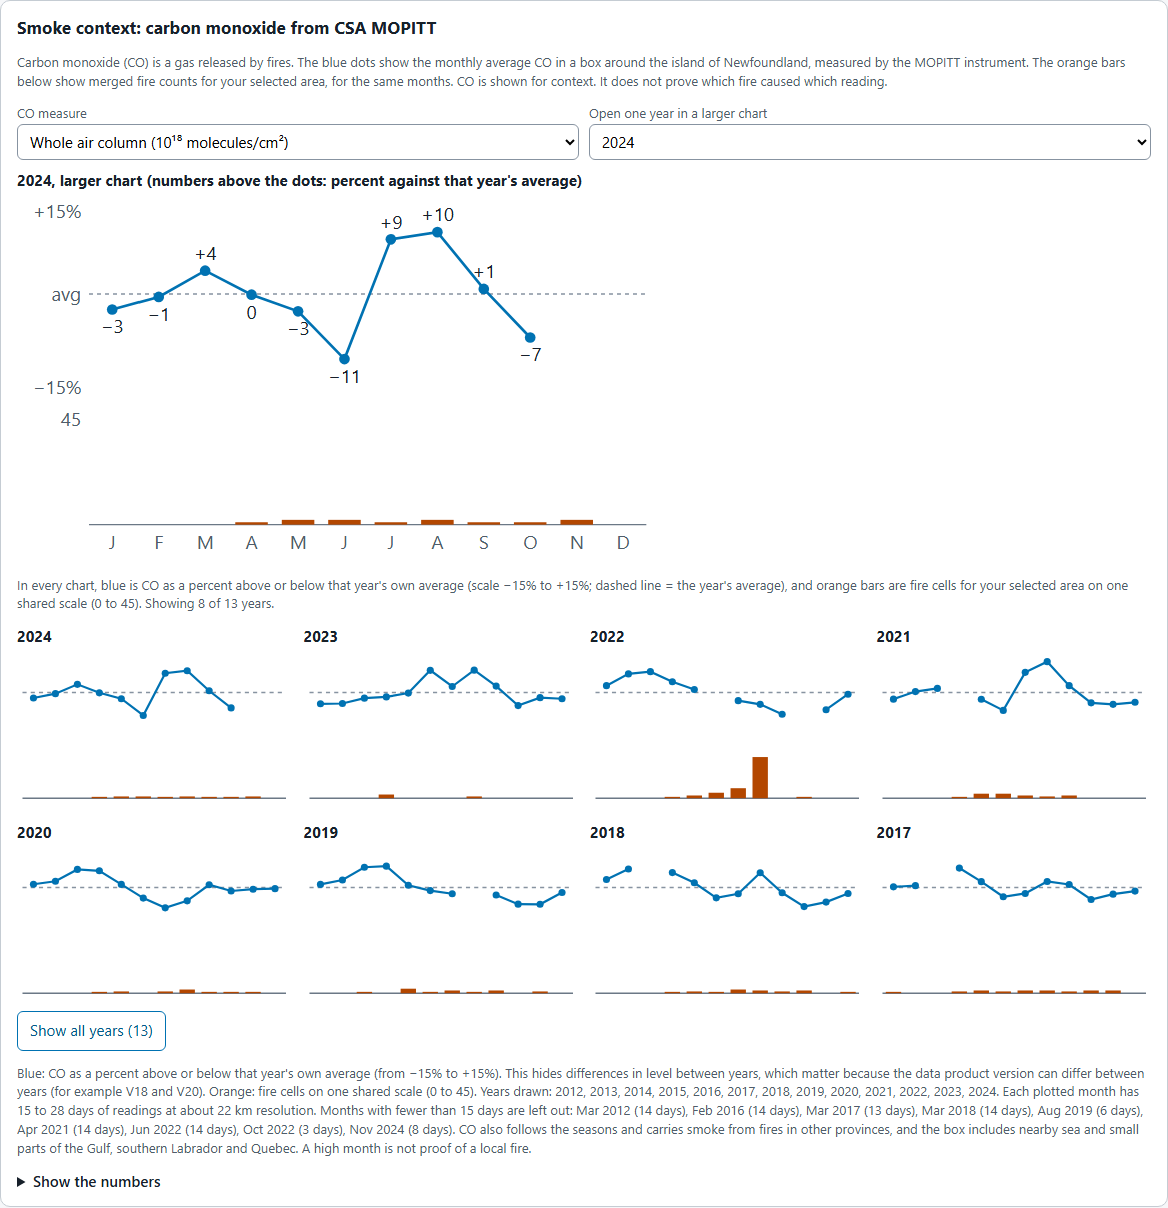
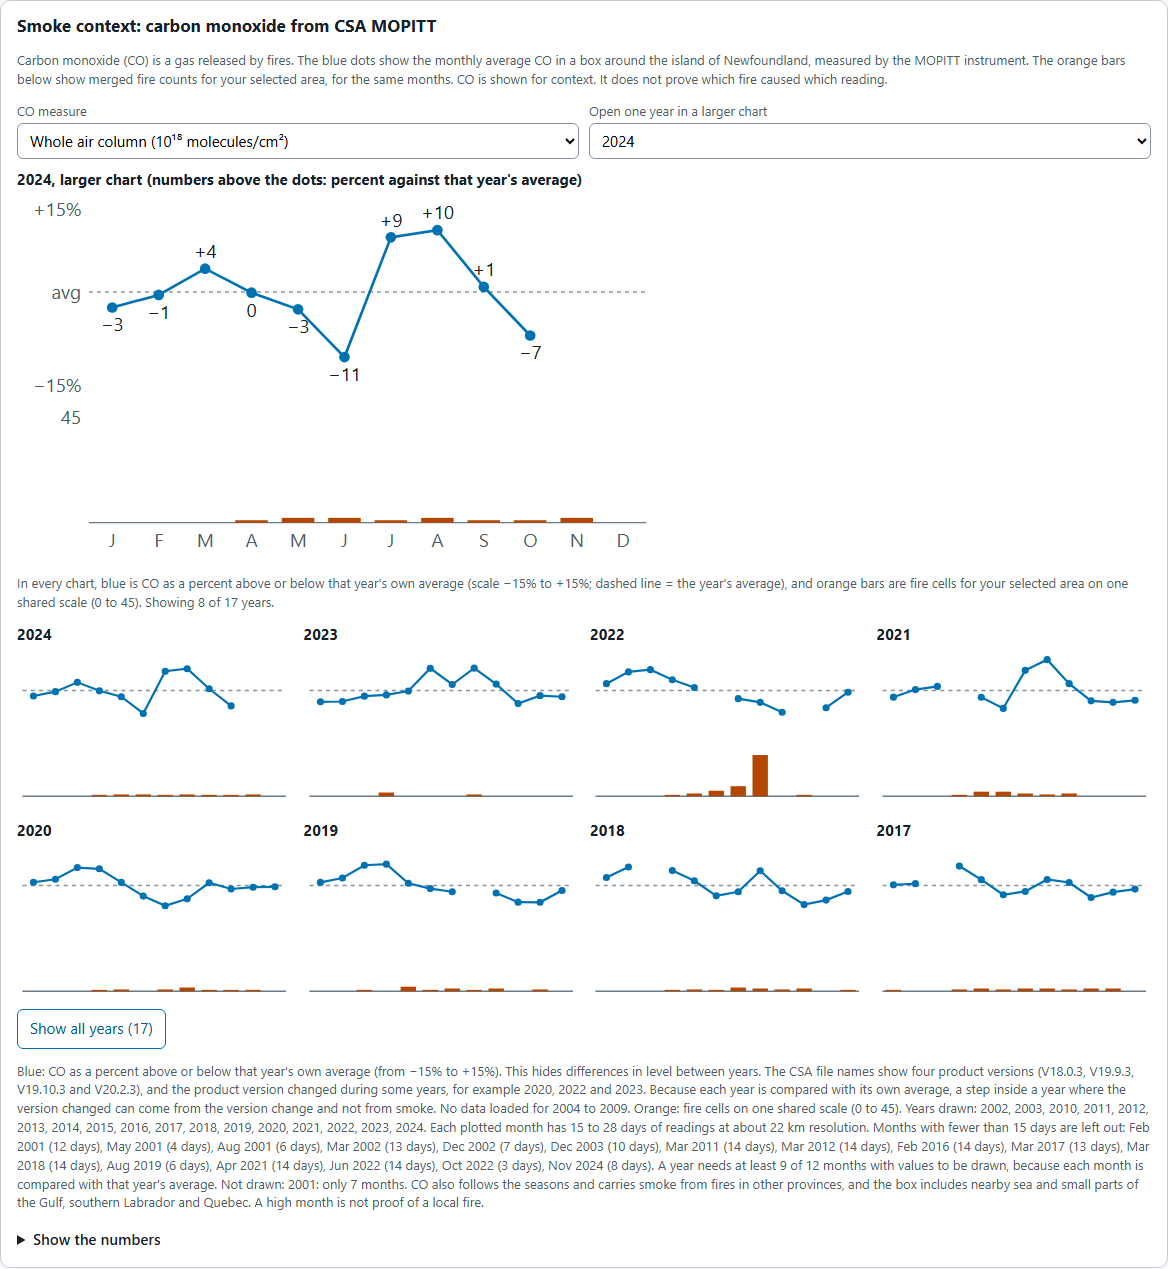
Update demo screenshots and click order (#4)

diff --git a/notes/demo-script.md b/notes/demo-script.md
@@ -5,7 +5,7 @@ Two versions:
 - A. The official Space Apps video. At most 30 seconds, with English subtitles (`notes/subtitles.srt`).
 - B. The live 2-minute presentation.
 
-Fill in `[YOUR NAME]` and `[TEAM NAME]` in the 2-minute version before presenting.
+Speaker: Amalraj Rajesh, Basepan Space Challenge Team.
 
 What the app does and does not do. It gives historical context: when and where satellites saw fire in the past. It does not predict fires, send alerts or confirm fires. A heat detection is not a confirmed fire.
 
@@ -17,11 +17,22 @@ What the app does and does not do. It gives historical context: when and where s
 - Typical (median) error when each May to September total is predicted from the other seasons: 15%. For single months the error is much larger: about 60%.
 - Peak month, island of Newfoundland: August 2025, 64 fire cells. The median for August in the other 14 VIIRS-era years is 2.
 
+## How the page is laid out now
+
+- At the top: the header, then the headline card ("Two satellite sensors count fires differently...") with three boxes: "May 2001–Nov 2026 record coverage", "14 fit seasons" and "15% season error". Below them are the buttons "Explore the calendar" and "See evidence and limits", and a closed section "About: problem, method, tour, safe use".
+- Next to the headline card: the "Right now" box.
+- Below: a closed section "How to read this: squares, colors, median".
+- Then the tabs: Area and calendar, Compare, Smoke, Downloads, Method.
+- In "Area and calendar", the calendar comes first ("1. Burning activity calendar"). Under its title is a line such as "Area: the island of Newfoundland" and a link "Change the area or dates". The area controls come second ("2. Choose an area and dates"). The "Island of Newfoundland" button is in that second card.
+
+Leave both closed sections closed while recording.
+
 ## Before you record (both versions)
 
-1. Open the app at 1400 px wide or more. Use the live site, or run `python -m http.server 8001 --directory app` and open http://localhost:8001 .
-2. Click "Island of Newfoundland" once. The area stays selected when you change tabs.
-3. Scroll back to the top of the page.
+1. Open https://portalzone.github.io/nl-fire-calendar/ at 1400 px wide or more. Do a hard refresh (Ctrl+Shift+R) so you do not see an old copy.
+2. Click "Explore the calendar". Click "Change the area or dates" on the calendar card. Click "Island of Newfoundland".
+3. Check the line under "1. Burning activity calendar" says "Area: the island of Newfoundland". The area stays selected when you change tabs. Do not reload the page after this, or the area resets.
+4. Scroll back to the top of the page.
 
 ---
 
@@ -30,8 +41,8 @@ What the app does and does not do. It gives historical context: when and where s
 | Time | On screen | Click | Words to say | Words |
 |---|---|---|---|---|
 | 0:00.0 to 0:03.5 | Top of the page: the title "Newfoundland and Labrador Fire Calendar" | None | I'm Amalraj Rajesh, from Basepan Space Challenge Team. | 8 |
-| 0:03.5 to 0:12.0 | Scroll a little to the challenge card: "Two sensors count fire hotspots differently" and the boxes "14" and "15%" | None (scroll) | Challenge: Harmonization of MODIS and VIIRS Hot Spots. MODIS is retiring; more than a decade of fire history could be lost. | 21 |
-| 0:12.0 to 0:16.5 | The calendar, one square per month, years 2001 to 2026 | "Explore the calendar", then scroll down to the calendar | NL Fire Calendar: twenty-five years of fire history on one scale. | 11 |
+| 0:03.5 to 0:12.0 | The same view. The headline card "Two satellite sensors count fires differently" with the boxes "14 fit seasons" and "15% season error" | None | Challenge: Harmonization of MODIS and VIIRS Hot Spots. MODIS is retiring; more than a decade of fire history could be lost. | 21 |
+| 0:12.0 to 0:16.5 | "1. Burning activity calendar", one square per month, years 2000 to 2026, area: the island of Newfoundland | "Explore the calendar" (opens the Area and calendar tab at the calendar) | NL Fire Calendar: twenty-five years of fire history on one scale. | 11 |
 | 0:16.5 to 0:22.0 | The calendar. Point at a 2009 row (MODIS, scaled) and a 2022 row (VIIRS). | None | Fire cells and one ratio from fourteen overlap seasons scale MODIS to VIIRS. | 13 |
 | 0:22.0 to 0:24.5 | Smoke tab: carbon monoxide chart | "Smoke" tab | Data: NASA FIRMS and CSA MOPITT. | 6 |
 | 0:24.5 to 0:30.0 | Compare tab: August 2025, 64 fire cells against a median of 2 | "Compare" tab, then "Peak month in range" | Pick an area and month for historical context. Next: every province. | 11 |
@@ -47,18 +58,18 @@ The app's data has about 11 years with MODIS alone (late 2000 to early 2012).
 Speak at a calm pace. The times are a guide.
 
 **0:00 to 0:15. Who we are and the problem.**
-Screen: top of the page.
+Screen: top of the page: the header, the headline card and the "Right now" box.
 Click: none.
-Say: "Hi, I'm [YOUR NAME], from team [TEAM NAME]. Our challenge is Harmonization of MODIS and VIIRS Hot Spots. Satellites have tracked fire for over twenty years. But the record is split between two sensors, and MODIS is being retired. If we cannot compare the two, more than a decade of fire history is lost."
+Say: "Hi, I'm Amalraj Rajesh, from Basepan Space Challenge Team. Our challenge is Harmonization of MODIS and VIIRS Hot Spots. Satellites have tracked fire for over twenty years. But the record is split between two sensors, and MODIS is being retired. If we cannot compare the two, more than a decade of fire history is lost."
 
 **0:15 to 0:35. The idea.**
-Screen: the challenge card with the boxes "14 overlap seasons" and "15% median error".
-Click: none.
+Screen: the headline card with the boxes "14 fit seasons" and "15% season error".
+Click: none. Point at the two boxes.
 Say: "VIIRS sees smaller fires than MODIS, so it counts more. We count fire cells: a small map square with at least one detection on one day. Then we use the fourteen seasons when both sensors flew to fit one ratio. One MODIS fire cell counts as about one point six VIIRS cells."
 
 **0:35 to 0:55. The calendar.**
-Screen: the calendar for the island of Newfoundland.
-Click: "Explore the calendar", then scroll to the calendar.
+Screen: "1. Burning activity calendar" for the island of Newfoundland.
+Click: "Explore the calendar". The Area and calendar tab opens with the calendar at the top.
 Say: "This is NL Fire Calendar. Each square is one month, from 2001 to today, on one scale. Yellow means a lot of burning. Grey means none was seen. Before 2012 the numbers are MODIS, scaled. After that they are VIIRS."
 
 **0:55 to 1:15. Pick a month.**
@@ -67,8 +78,8 @@ Click: "Compare" tab, then "Peak month in range".
 Say: "Pick a month, and we compare it with the same month in other years. August 2025 had sixty-four fire cells. The usual August has two. Fourteen of fourteen other years had fewer."
 
 **1:15 to 1:30. Your own area and the downloads.**
-Screen: Area and calendar tab, then the Downloads tab.
-Click: "Area and calendar" tab. Type new numbers in the latitude and longitude boxes, or drag a box on the map. Click "Apply area". Then click the "Downloads" tab.
+Screen: Area and calendar tab, then "2. Choose an area and dates", then the Downloads tab.
+Click: "Area and calendar" tab. Click "Change the area or dates" on the calendar card. In "2. Choose an area and dates", type new numbers in the latitude and longitude boxes, or drag a box on the map. Click "Apply area". Then click the "Downloads" tab.
 Say: "You can choose your own area by typing it or drawing it on the map. Then download the hotspots and the monthly series as CSV, or the charts as pictures."
 
 **1:30 to 1:42. Smoke.**
@@ -86,17 +97,26 @@ Screen: top of the page.
 Click: scroll to the top.
 Say: "Next, we want the same calendar for every province. Thank you."
 
+Note: the area you typed in step 1:15 stays selected. If you run the demo again, click "Island of Newfoundland" again first.
+
 ---
 
 ## Screenshots (notes/screenshots/)
 
-Taken with Playwright at 1400 px wide on 2026-11-15.
+All four were taken from the live site https://portalzone.github.io/nl-fire-calendar/ with Playwright at 1400 px wide, on 2026-11-15 at 11:16 Newfoundland time (UTC-3:30). This was after the final carbon monoxide data and the shorter page layout went live. The browser started with an empty cache and asked for fresh files (the same as a hard refresh). The live `index.html`, `data/co_monthly.json` and `data/summary.json` were checked and are the same as on `main` (commit dd0b5ce).
 
-- `01-right-now.png`: top of the page down to the "Right now" box. Local copy, branch main.
-- `02-calendar-island.png`: the calendar for the island of Newfoundland. Local copy.
-- `03-compare-month.png`: the Compare tab with August 2025 selected ("Peak month in range"). Local copy.
-- `04-smoke.png`: the Smoke tab, island of Newfoundland selected. Taken from the live site https://portalzone.github.io/nl-fire-calendar/ on 2026-11-15 at 09:49 Newfoundland time (UTC-3:30). Victor had not yet confirmed that the final carbon monoxide data was pushed, so this picture may be out of date. It shows CO years 2012 to 2024. Retake it after he confirms.
+- `01-right-now.png`: the header, the headline, the three proof boxes and the "Right now" box. Area: all of Newfoundland and Labrador (the page default).
+- `02-calendar-island.png`: "1. Burning activity calendar" for the island of Newfoundland.
+- `03-compare-month.png`: the Compare tab with August 2025 selected: 64 fire cells, median 2.
+- `04-smoke.png`: the Smoke tab, island of Newfoundland selected.
 
-In screenshots 02 and 04 the tab bar was set to not stick to the top, in the test browser only, so it would not cover the card. The app file was not changed.
+Carbon monoxide years on the Smoke tab (read from the page at 11:16):
 
-No console errors on the local copy or on the live site while taking the screenshots.
+- Years drawn: 2002, 2003, and 2010 to 2024. That is 17 years ("Show all years (17)").
+- No data loaded for 2004 to 2009.
+- 2001 is not drawn: it has only 7 months with values, and a year needs at least 9.
+- There is no carbon monoxide data for 2025 or 2026.
+
+In screenshots 02, 03 and 04 the tab bar was set to not stick to the top, in the test browser only, so it would not cover the card. The app file was not changed.
+
+No console errors on the live site while taking the screenshots.
